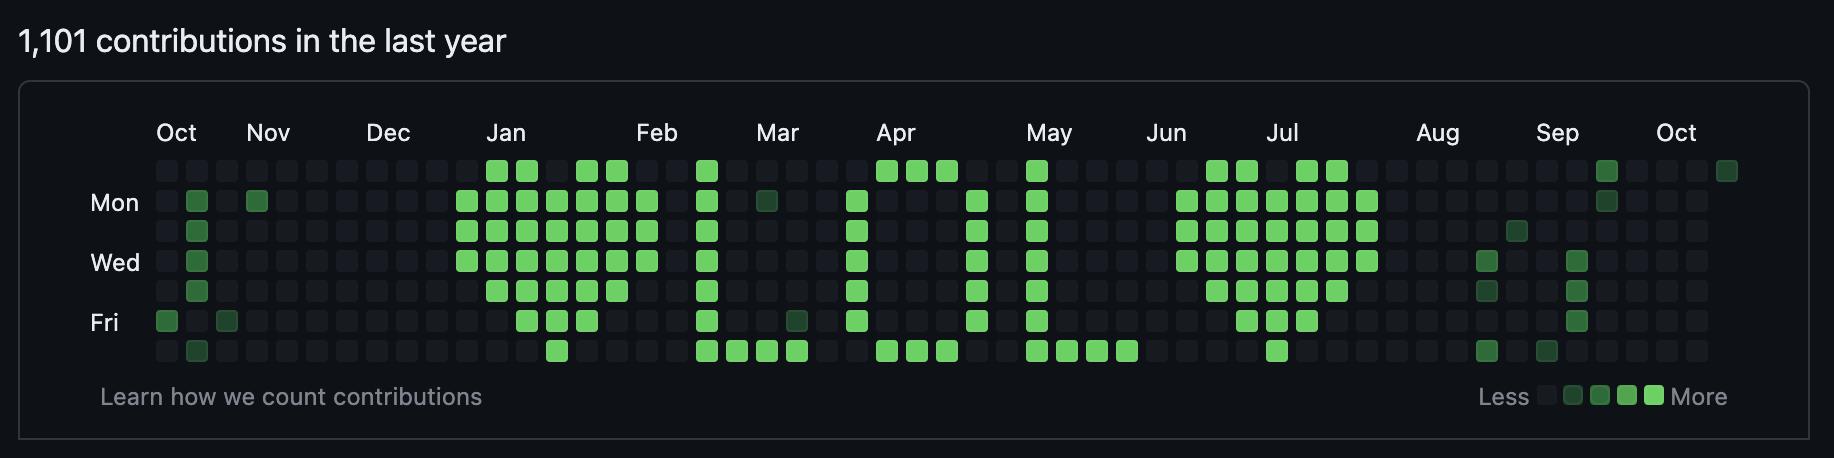
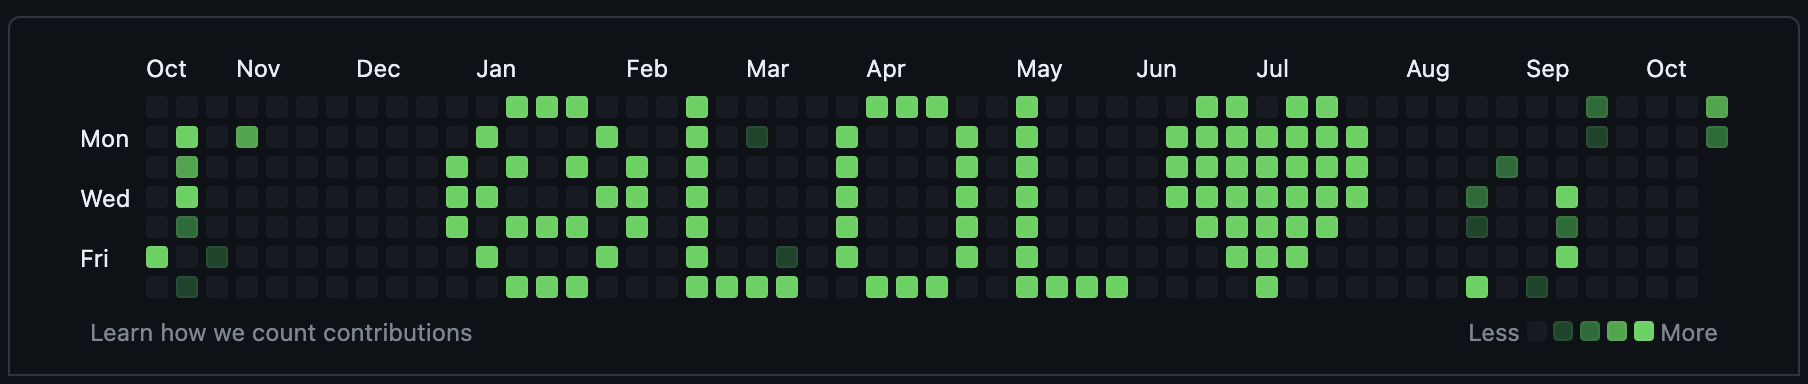
New character: 😀

diff --git a/characters.go b/characters.go
@@ -210,4 +210,16 @@ var font = map[rune]fontInfo{
 			{1},
 		},
 	},
+	'😀': {
+		width: 7,
+		matrix: [][]int{
+			{0, 0, 1, 1, 1, 0, 0},
+			{0, 1, 0, 0, 0, 1, 0},
+			{1, 0, 1, 0, 1, 0, 1},
+			{1, 1, 0, 0, 0, 1, 1},
+			{1, 0, 1, 1, 1, 0, 1},
+			{0, 1, 0, 0, 0, 1, 0},
+			{0, 0, 1, 1, 1, 0, 0},
+		},
+	},
 }

diff --git a/README.md b/README.md
@@ -3,7 +3,7 @@
 This tool displays a message on your Github contributions calendar. 
 
 ### Example
-message: `❤LOL❤`, intensity: 10
+message: `"😀LOL❤`, intensity: 5
 
 ![My Image](images/image.png)
 
@@ -27,7 +27,7 @@ No. The commits are made to, and removed from, a dummy repository only. They pai
 3. Run `go run .`. Check your contributions calendar to see the message.
 
 ### Supported Characters
-The following characters are supported: L U D I R E H A K ❤ O G P S ! . 
+The following characters are supported: L U D I R E H A K ❤ O G P S ! . 😀
 
 Also, an empty space.
 
